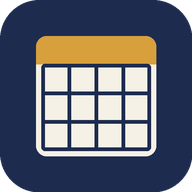
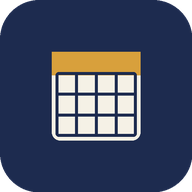
圖示再縮小以避免圓形裁切

Changed region(s): [[0.1875, 0.1875, 0.8438, 0.8438]]

diff --git a/sw.js b/sw.js
@@ -1,4 +1,4 @@
-const CACHE = "schedule-105-v3";
+const CACHE = "schedule-105-v4";
 const ASSETS = ["./", "index.html", "style.css", "app.js", "data.js", "manifest.json", "icons/icon-192.png", "icons/icon-512.png"];
 
 self.addEventListener("install", (e) => {
